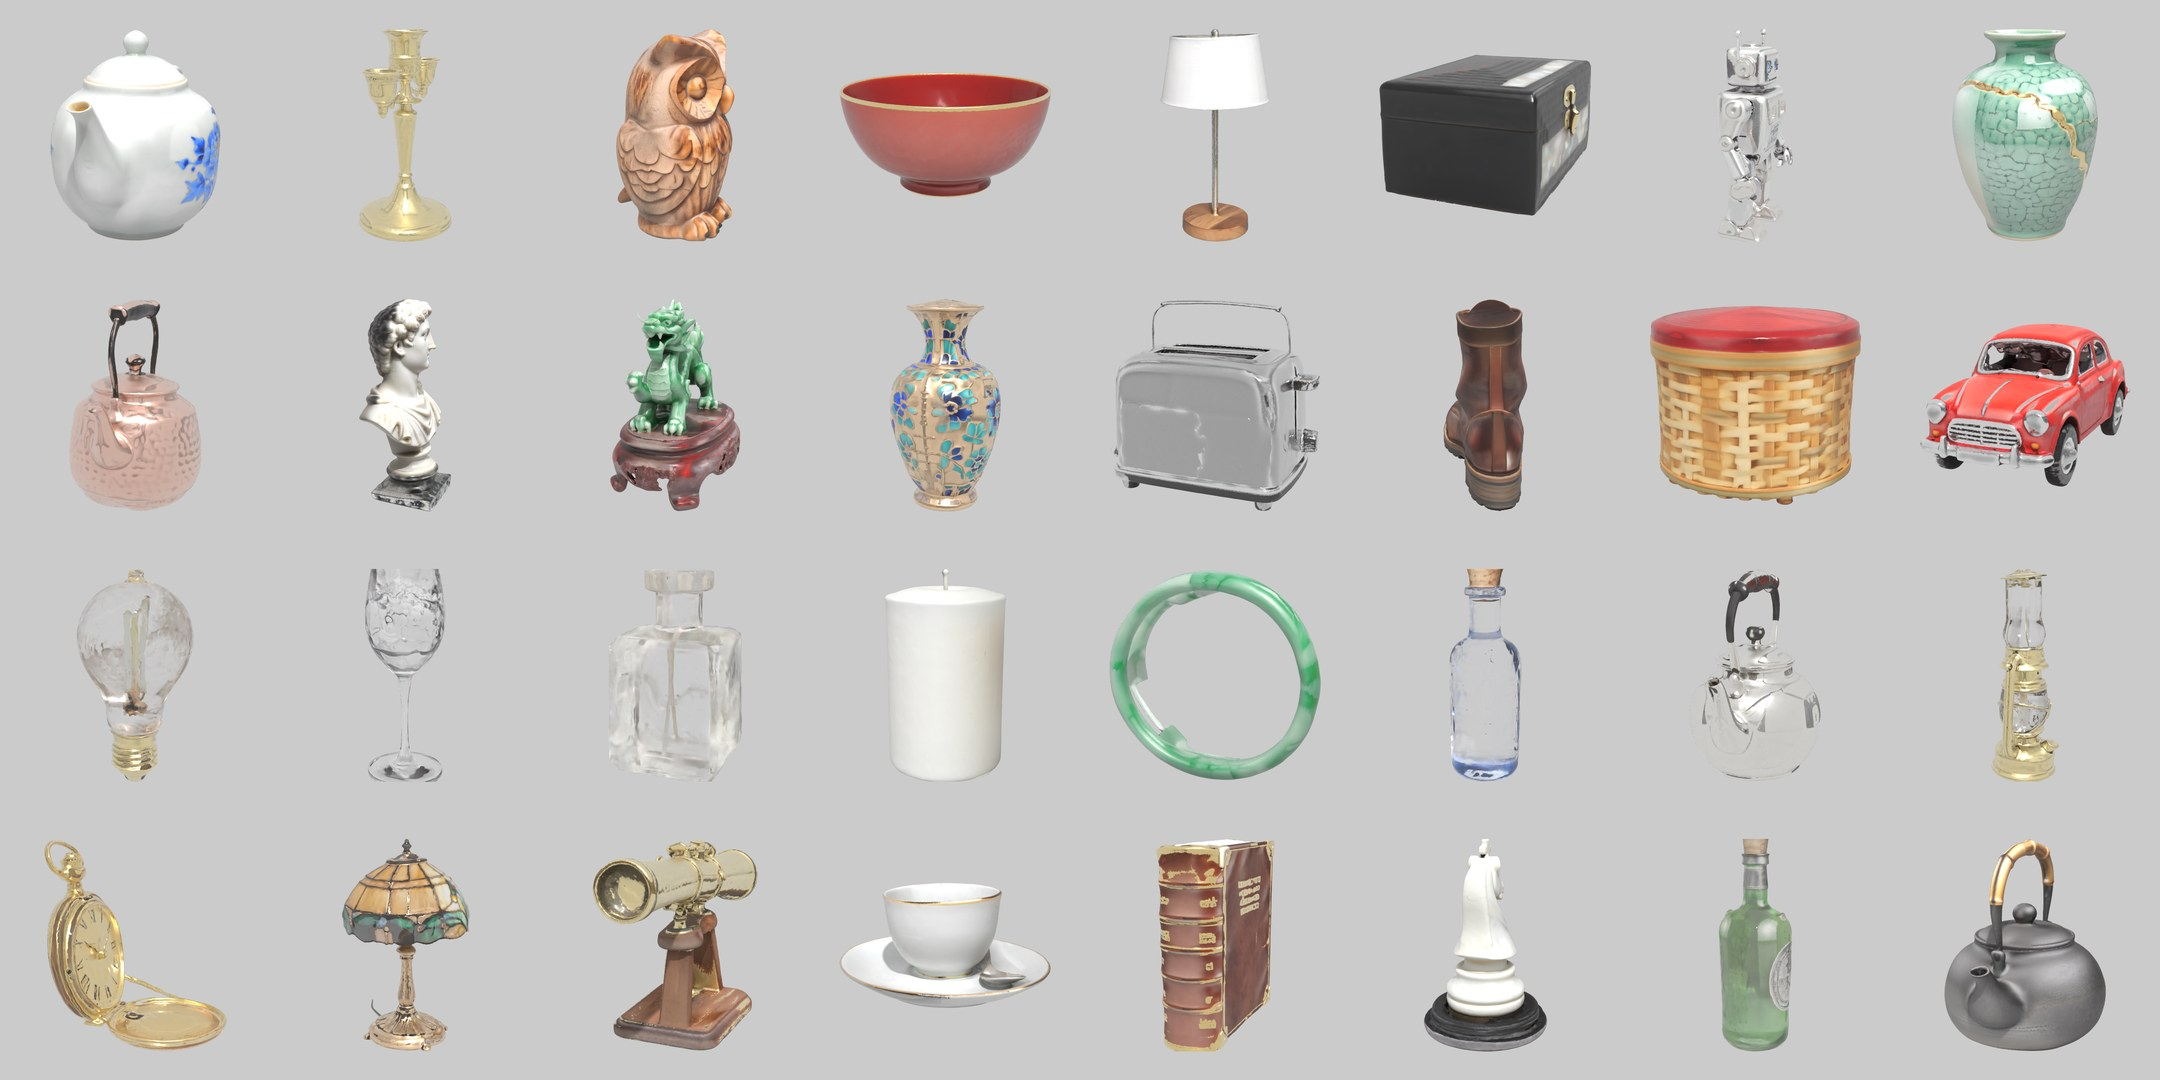
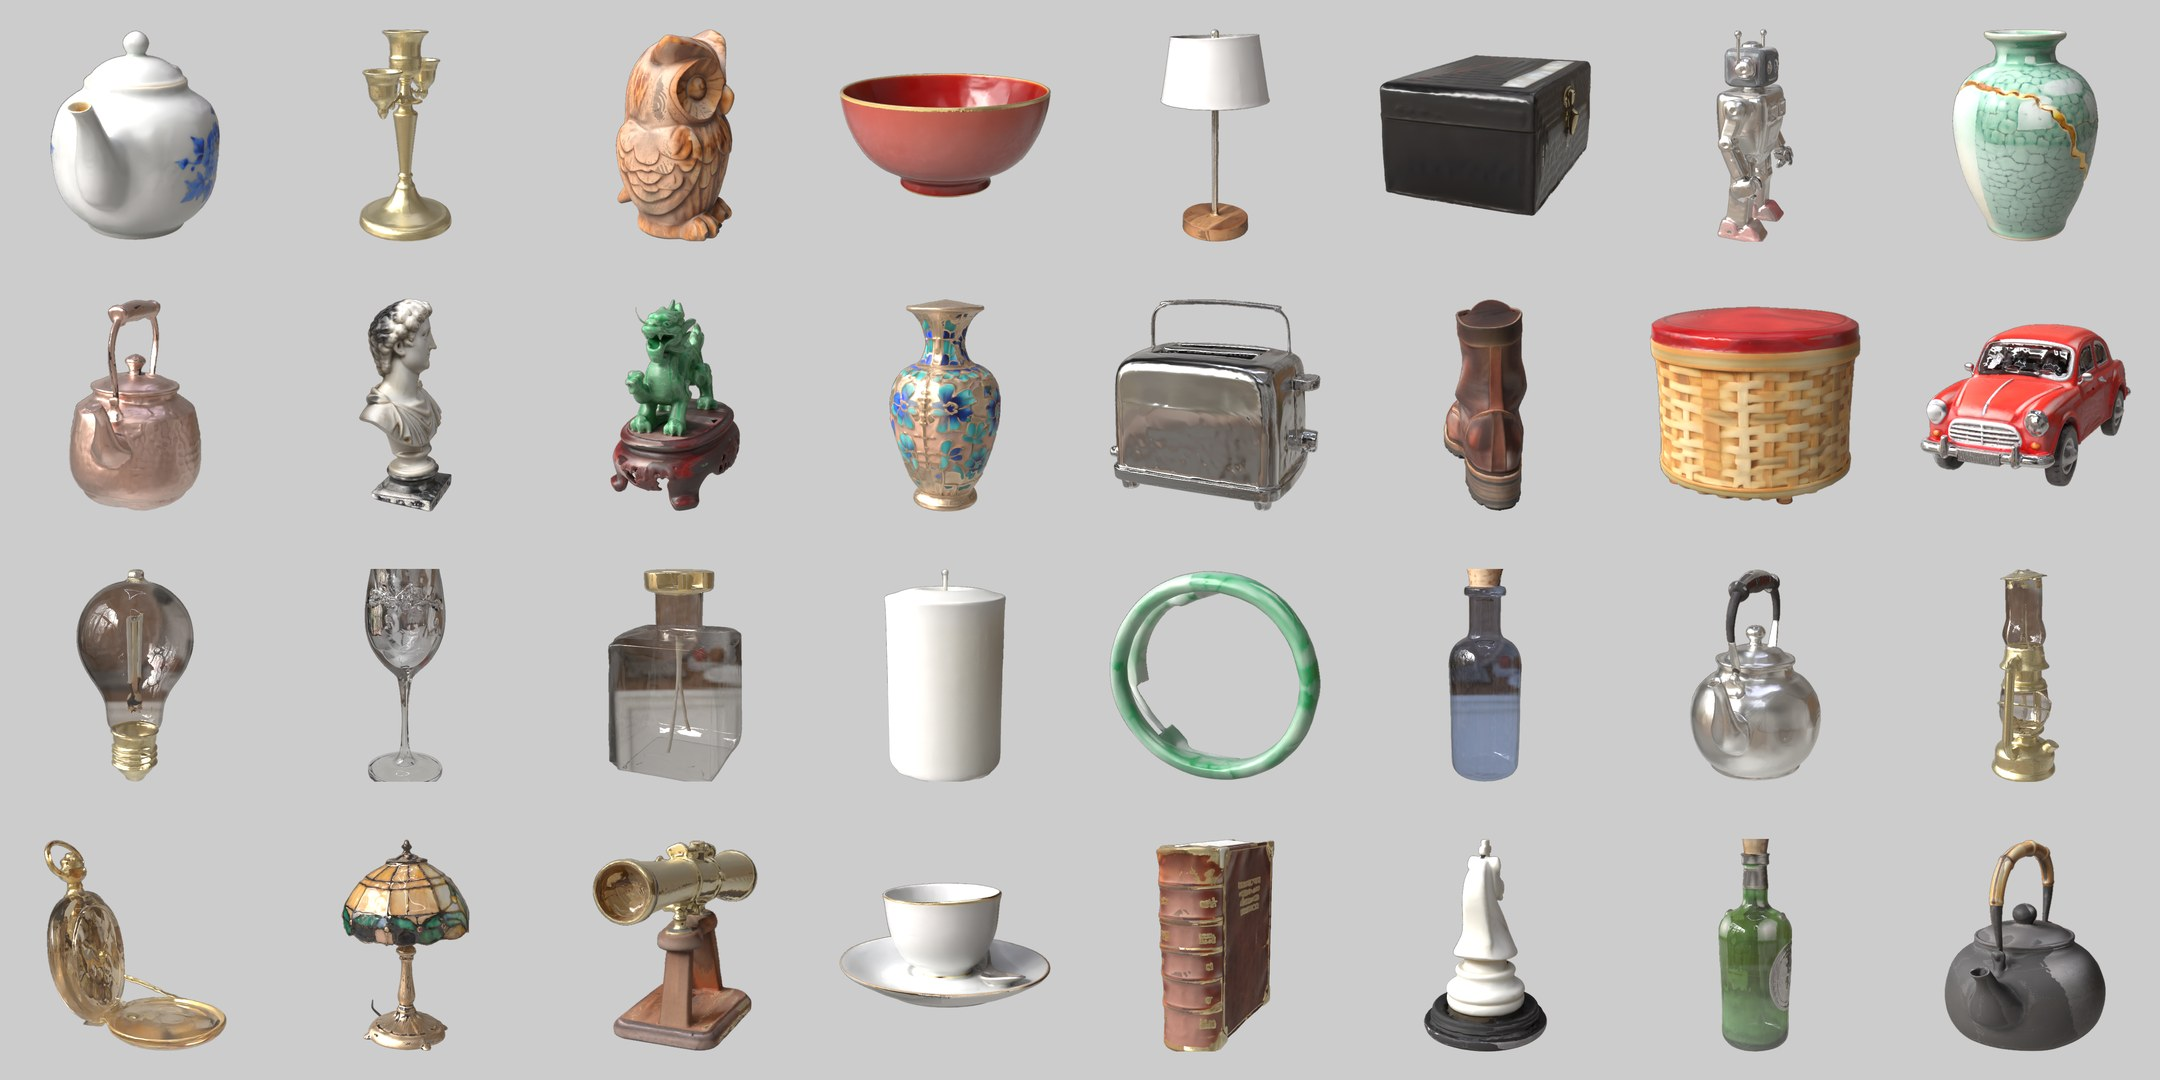
Gallery stills under a studio HDRI composited by depth; half specular on thin-walled glass walls; web v12
Claude-Session: https://claude.ai/code/session_01ShCsYzpi7wuwmF3CBAZNXx

diff --git a/scripts/exr_over.py b/scripts/exr_over.py
@@ -1,0 +1,25 @@
+"""Composite an athenea EXR rendered under an HDRI dome onto a flat grey card, using depth as the object mask
+(the dome counts as covered in alpha). Edges are softened over one pixel.
+
+    python scripts/exr_over.py IN.exr OUT.png [--grey 0.8]
+"""
+import sys
+import numpy as np
+import OpenEXR, Imath
+from PIL import Image
+from scipy import ndimage as ndi
+
+src, dst = sys.argv[1], sys.argv[2]
+grey = float(sys.argv[sys.argv.index("--grey") + 1]) if "--grey" in sys.argv else 0.8
+f = OpenEXR.InputFile(src)
+dw = f.header()["dataWindow"]; w, h = dw.max.x - dw.min.x + 1, dw.max.y - dw.min.y + 1
+FLOAT = Imath.PixelType(Imath.PixelType.FLOAT)
+ch = lambda c: np.frombuffer(f.channel(c, FLOAT), np.float32).reshape(h, w)
+rgb = np.stack([ch("R"), ch("G"), ch("B")], -1)
+z = ch("Z")
+obj = np.isfinite(z) & (z > 0)                     # athenea writes depth 0 where a ray reached the dome
+a = ndi.gaussian_filter(obj.astype(np.float32), 0.7)[..., None]
+srgb = lambda c: np.where(c <= 0.0031308, c * 12.92, 1.055 * np.power(np.clip(c, 0, None), 1 / 2.4) - 0.055)
+out = srgb(np.clip(rgb, 0, 1)) * a + grey * (1 - a)
+Image.fromarray((np.clip(out, 0, 1) * 255).round().astype(np.uint8)).save(dst)
+print(dst, "object px", int(obj.sum()))

diff --git a/splat2mesh/materials.py b/splat2mesh/materials.py
@@ -604,7 +604,11 @@ def glass_walls(asset_dir, cls_tex, names, min_thickness: float = GLASS_WALL_MIN
                 Sdf.CopySpec(st.GetRootLayer(), mat_prim.GetPath(), st.GetRootLayer(), thin_path)
                 for p in Usd.PrimRange(st.GetPrimAtPath(thin_path)):     # CopySpec already remaps internal paths
                     if p.GetName() == "StandardSurface":
-                        UsdShade.Shader(p).CreateInput("thin_walled", Sdf.ValueTypeNames.Bool).Set(True)
+                        ssh = UsdShade.Shader(p)
+                        ssh.CreateInput("thin_walled", Sdf.ValueTypeNames.Bool).Set(True)
+                        # a thin-walled sheet is already two interfaces; the wall's inner and outer surfaces are
+                        # both sheets here, so each carries half the reflectance (one real wall = two interfaces)
+                        ssh.CreateInput("specular", Sdf.ValueTypeNames.Float).Set(0.5)
                 sub = UsdGeom.Subset.Define(st, geom.GetPath().AppendChild("glass_walls"))
                 sub.CreateElementTypeAttr(UsdGeom.Tokens.face)
                 sub.CreateIndicesAttr(Vt.IntArray.FromNumpy(wall.astype(np.int32)))

diff --git a/scripts/materials_eneas3d.py b/scripts/materials_eneas3d.py
@@ -77,7 +77,7 @@ if not reuse or run_items:
    inner = f"~/.local/bin/uv run python {wsl}/eneas_seq.py {wsl}/frames {wsl}/masks.npz {ann},{ann2} {q}"
    cmd = (f"cd ~/splat2mesh_eneas/eneas && {inner}" if LINUX
           else f'wsl -d Ubuntu-24.04 -- bash -lc "cd ~/splat2mesh/eneas && {inner}"')
-   print(subprocess.run(["ssh", HOST, cmd], capture_output=True, text=True).stdout.replace("\x00", "")[-1500:])
+   print(subprocess.run(["ssh", HOST, cmd], capture_output=True, text=True, timeout=5400).stdout.replace("\x00", "")[-1500:])
    if reuse:                 # merge the new phrases into the saved masks
        subprocess.run(["scp", "-q", f"{HOST}:{win}/masks.npz", str(asset / "mat" / "masks_new.npz")], check=True)
        merged = {**dict(np.load(asset / "mat" / "masks.npz")), **dict(np.load(asset / "mat" / "masks_new.npz"))}

diff --git a/LOOP.md b/LOOP.md
@@ -109,3 +109,4 @@ USDZ for every model, everything committed + pushed, complete tutorial, and an a
 - 2026-11-04 00:20–01:00 Coherent upscale before Idol (with athenea-research). Idol uses only the object crop at 1024 (crops here 870–1230 px, so Idol itself upscales just 1.0–1.2×). Kettle, same seed: Iris restorer on the crop → coherent (PSNR256 38.6 dB, ΔE 0.5, SSIM 0.99, silhouette IoU 0.995, sharpness ×1.19) and the splat is cleaner (folds 156 vs 184, denser hammering also on the invented back). ILVR re-invention with Iris Turbo (σ 0.625, low band anchored at 1/8) passes the numbers (sharpness ×1.31) but Idol turns the added grain into holes and stains on the lid and back; σ 0.833 invents a ghost structure by the handle. Kept: restorer only, `splat2usd.py --upscale`. No camera-projection bake (user: it makes the seen side unlike the invented one).
 - 01:30 Glass regressions in v10 fixed: transmission_color = full tint applied at both walls of a thin-walled shell made the blue bottle opaque and the bulb pink → per-wall colour map (tint pulled 65 % to white); white crack lines were UV seams (transmission 0 outside charts) → transmission/subsurface/opacity maps spread past chart borders. Web v11.
 - 02:00–03:30 Full pipeline with --upscale on 4 detail-heavy objects (kept next to the current ones in out/upscaled): kettle same/slightly better, leather book better (cleaner spine, page edges), walnut owl worse (flat patches, empty eye), boot worse (crumpled — direct path; the current boot is a render-path redo; folds 225 < 300 did not trigger the fallback, so the folds metric misses this kind of crumpling). Not a reliable win: --upscale stays optional, the set is not rebuilt.
+- 03:10–04:40 Gallery stills lit by a studio HDRI dome (brown_photostudio_02) and composited on grey by depth (scripts/exr_over.py): with the flat default dome, polished metals reflected the grey card and looked transparent. Thin-walled glass walls: Idol's double-surfaced walls became four interfaces per wall (wine glass looked like chrome) → specular 0.5 on the thin-walled copy. Web v12 (new posters).

diff --git a/docs/TUTORIAL.md b/docs/TUTORIAL.md
@@ -14,8 +14,9 @@ text ──Iris-3B──▶ image ──Idol──▶ 3D Gaussian splat ──sp
 
 <img src="img/gallery.jpg" width="100%">
 
-*32 test objects generated overnight — porcelain, metals, wood, lacquer, stone, jade, wax, glass, leather and
-mixes — every material assigned by the pipeline, no manual step. Path traced with athenea.*
+*33 test objects — porcelain, metals, wood, lacquer, stone, jade, wax, glass, leather and mixes — every material
+assigned by the pipeline, no manual step. Path traced with athenea under a studio HDRI (polished metals need
+something to reflect), composited on grey.*
 
 The step-by-step basics (direct mode, the UV map, the render path) are in [TUTORIAL_basics.md](TUTORIAL_basics.md).
 
